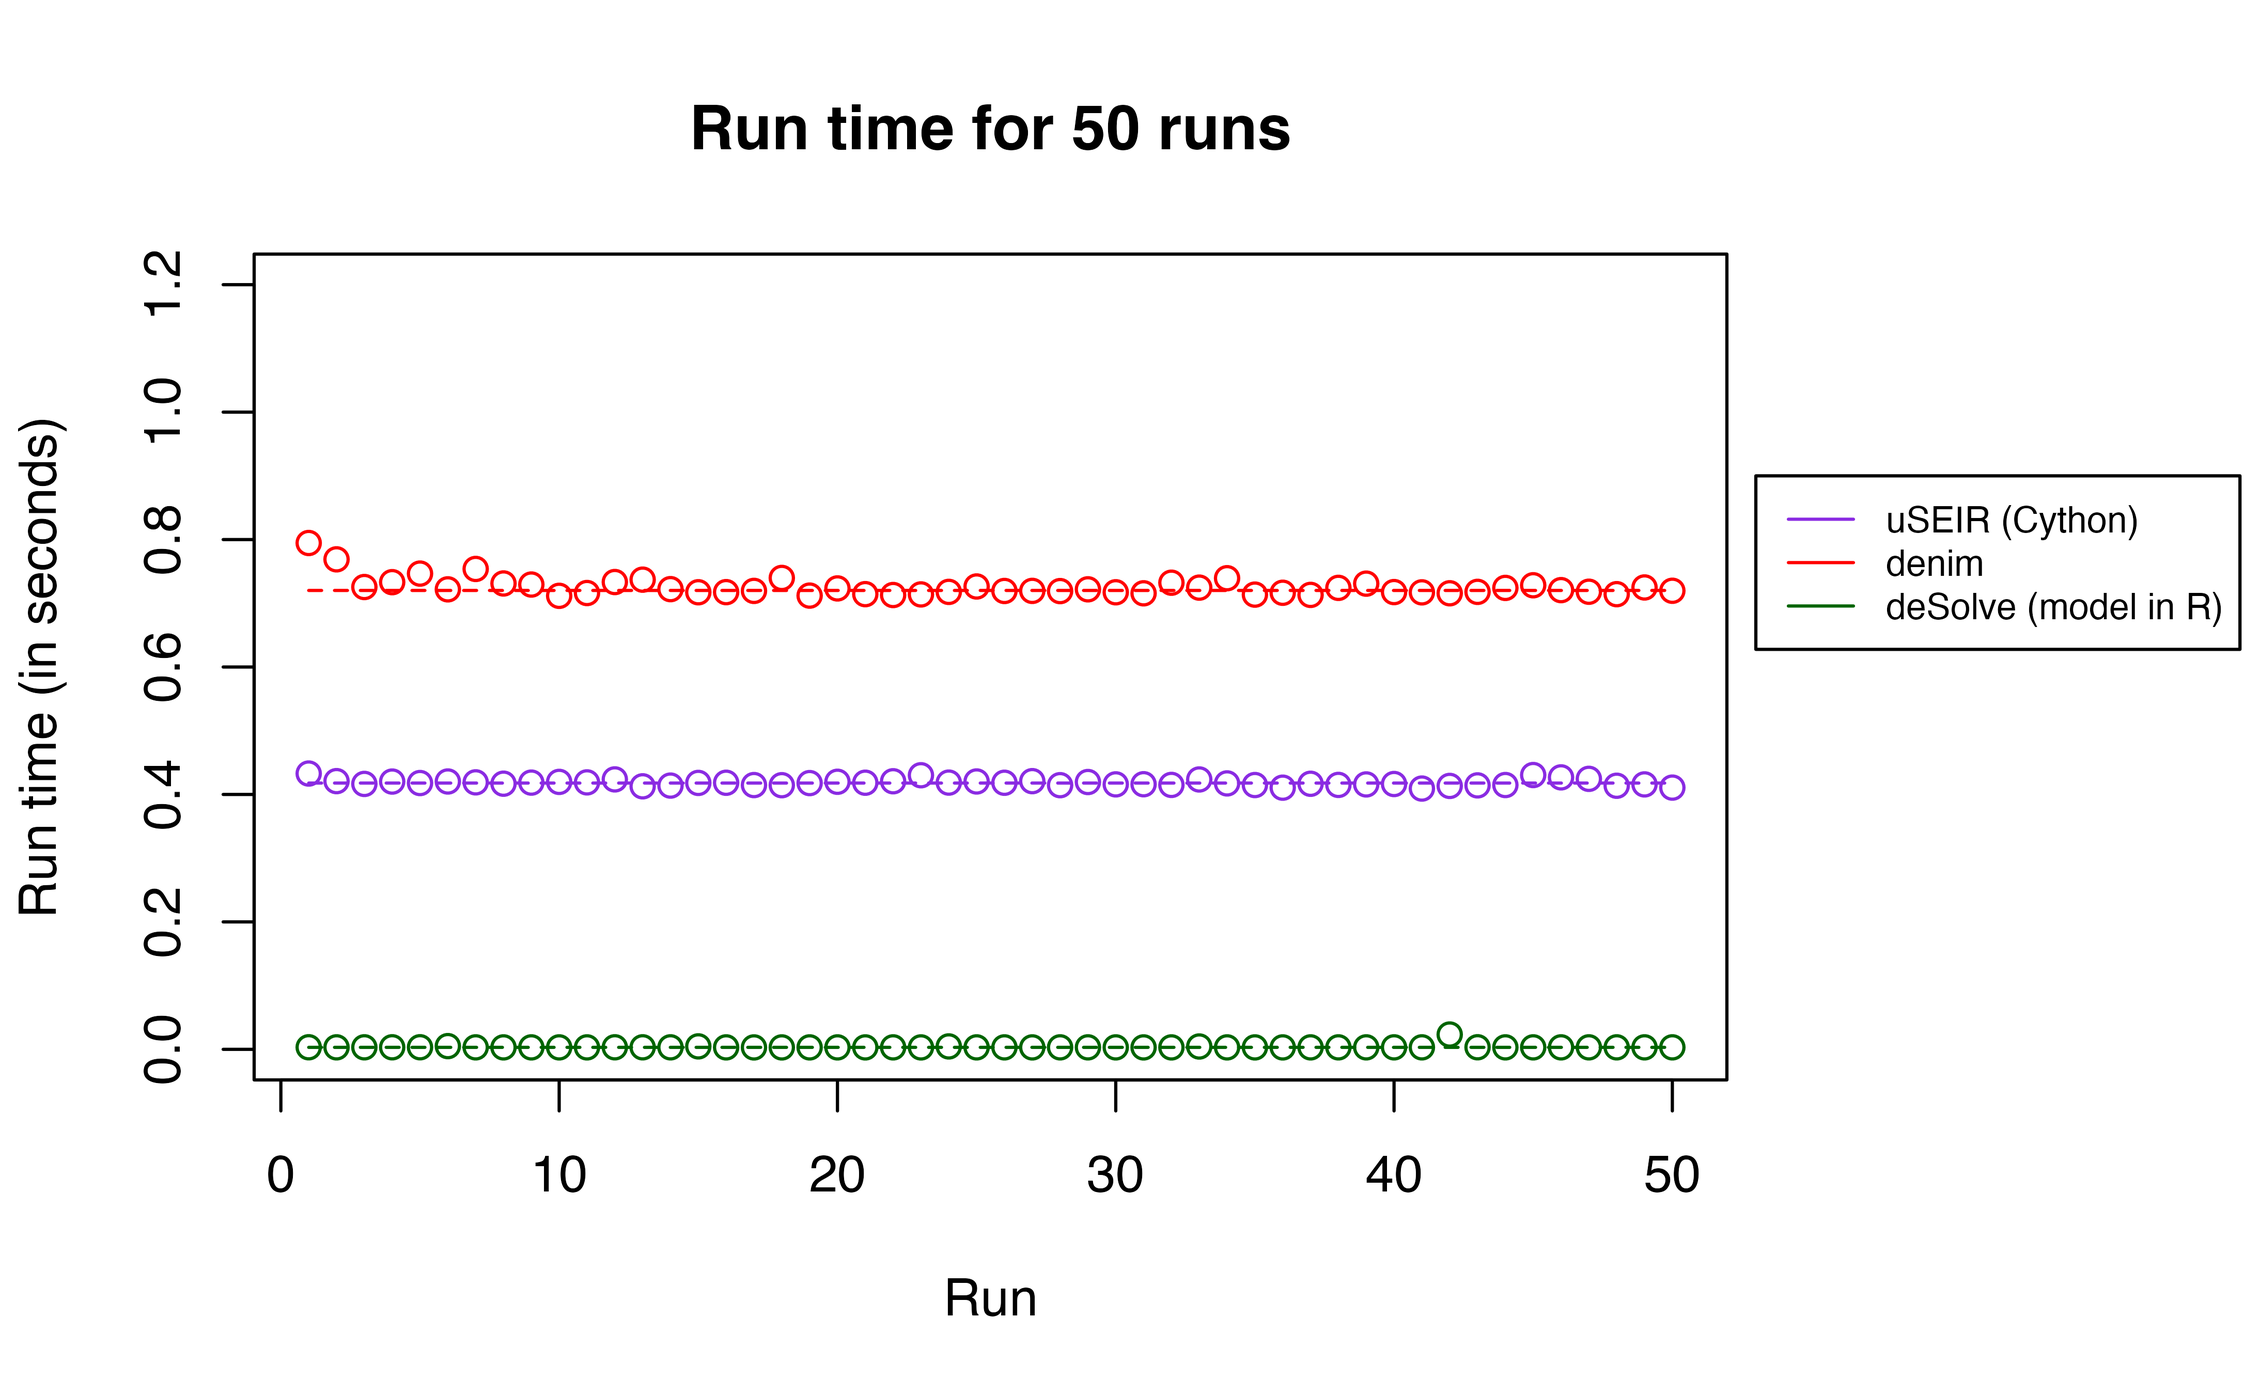
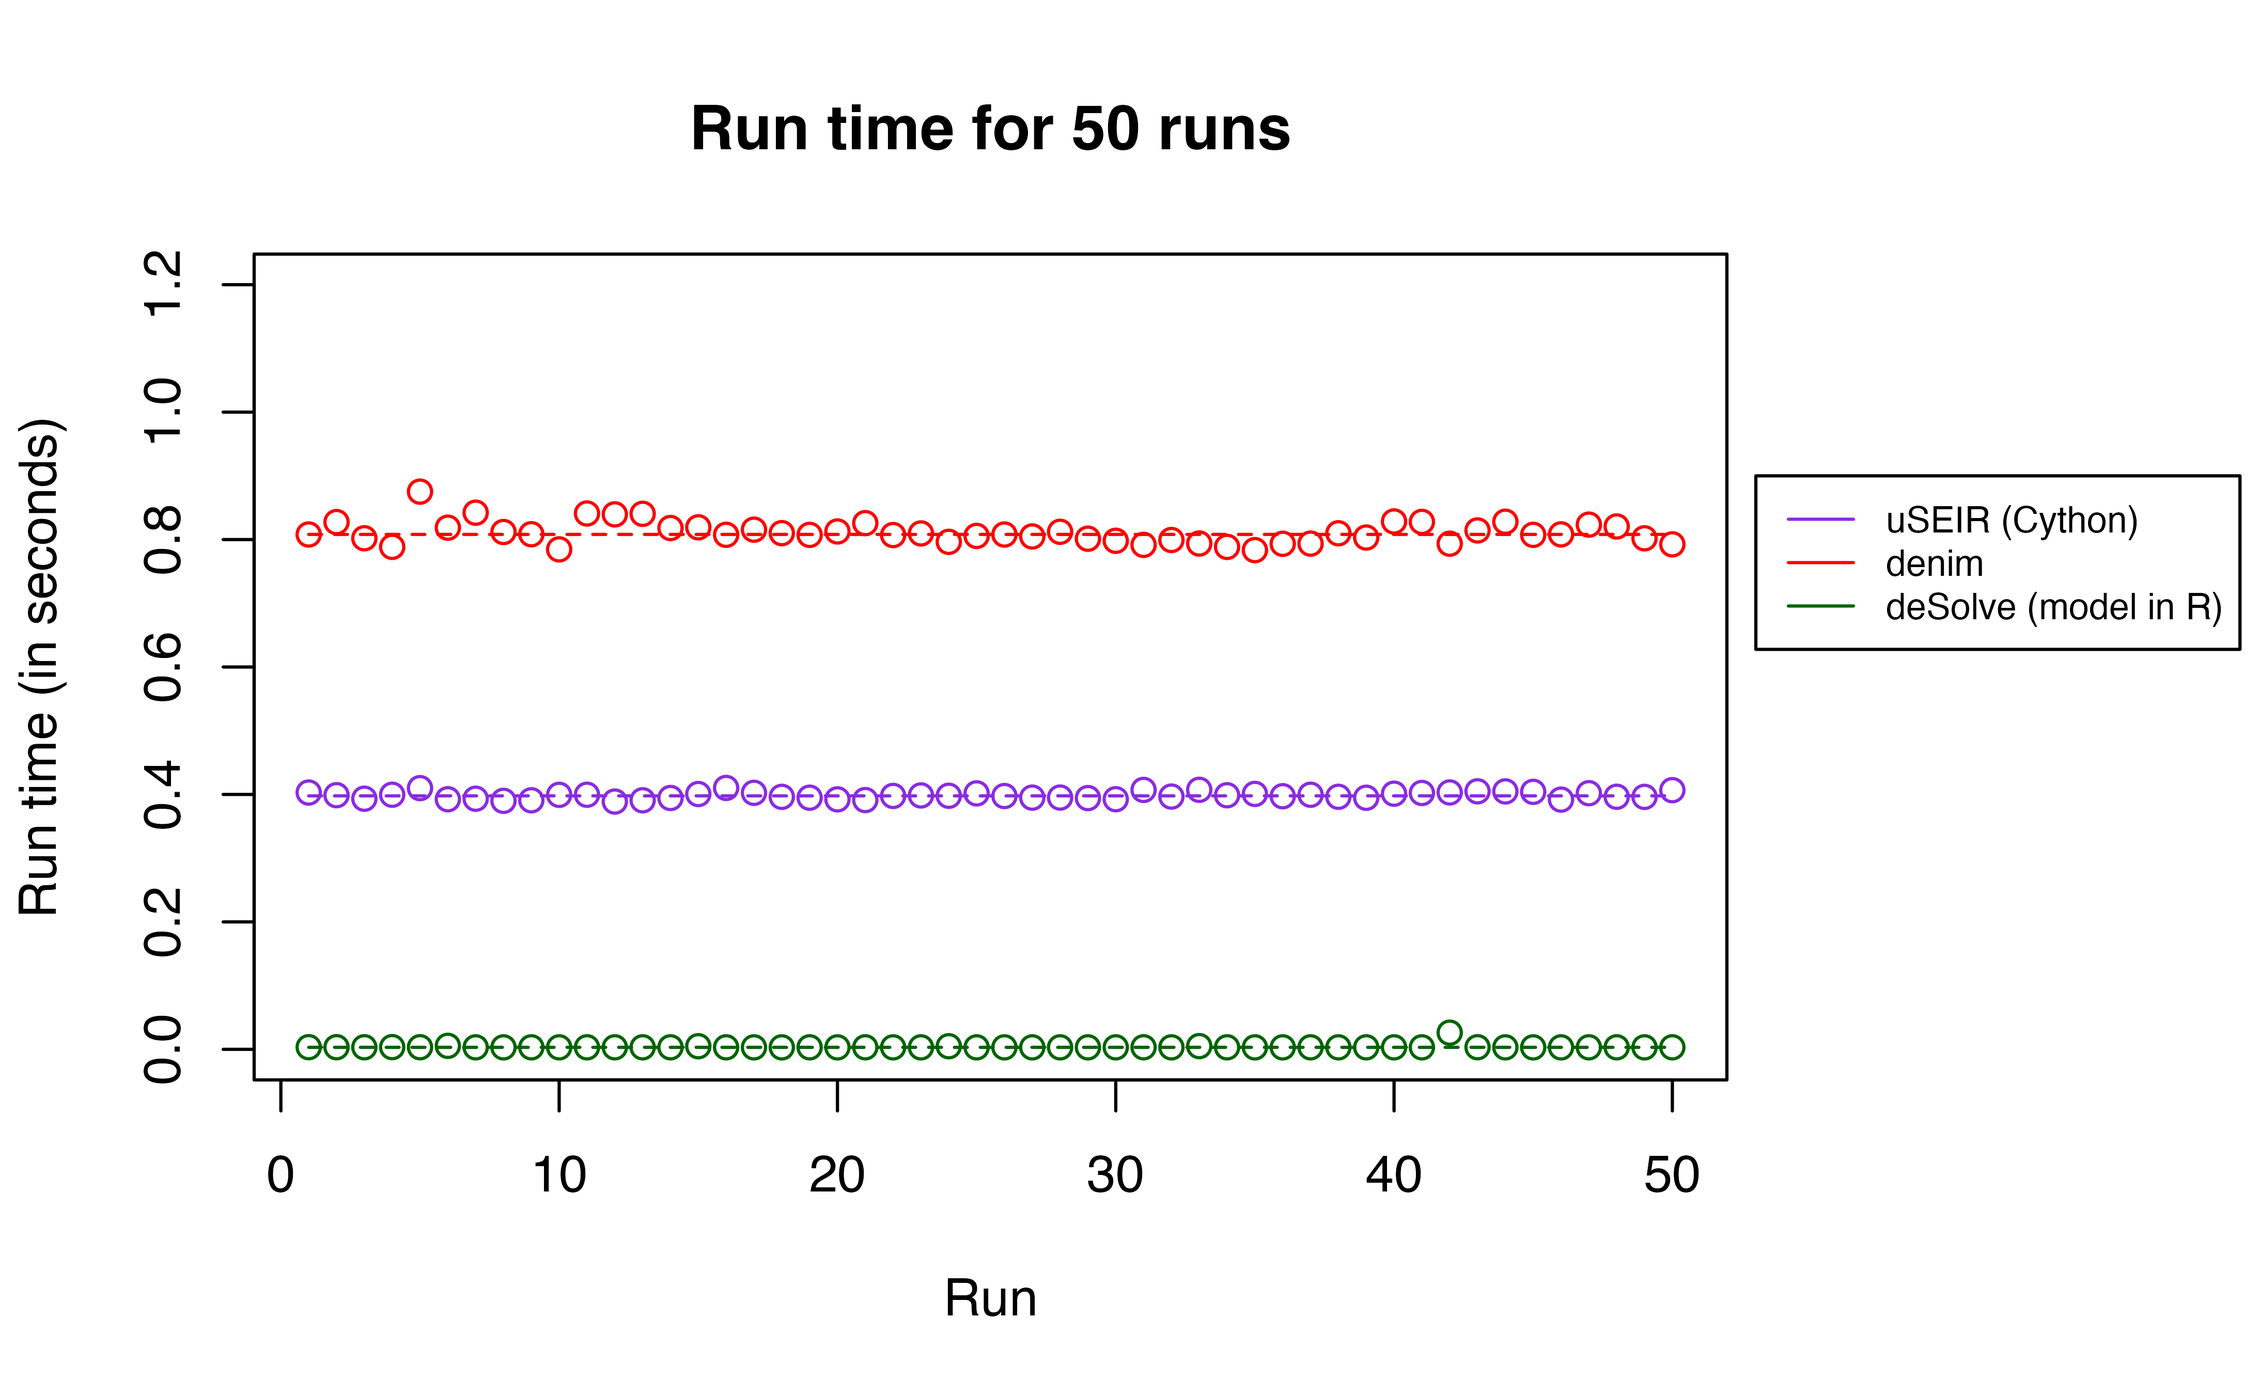
update rerendered benchmark

Changed region(s): [[0.1243, 0.3418, 0.7461, 0.4351], [0.1243, 0.5283, 0.7461, 0.5905]]

diff --git a/docs/articles/denim_benchmark.html b/docs/articles/denim_benchmark.html
@@ -33,7 +33,7 @@
     
     <a class="navbar-brand me-2" href="../index.html">denim</a>
 
-    <small class="nav-text text-muted me-auto" data-bs-toggle="tooltip" data-bs-placement="bottom" title="">1.0.1</small>
+    <small class="nav-text text-muted me-auto" data-bs-toggle="tooltip" data-bs-placement="bottom" title="">1.1.0</small>
 
     
     <button class="navbar-toggler" type="button" data-bs-toggle="collapse" data-bs-target="#navbar" aria-controls="navbar" aria-expanded="false" aria-label="Toggle navigation">
@@ -477,15 +477,15 @@ Code for running uSEIR in Cython (C backend)
 </details><p>Run time for uSEIR approach, Cython implementation (in seconds)</p>
 <div class="sourceCode" id="cb13"><pre class="downlit sourceCode r">
 <code class="sourceCode R"><span><span class="va">py</span><span class="op">$</span><span class="va">cython_runs</span></span></code></pre></div>
-<pre><code><span><span class="co">##  [1] 0.4328158 0.4209082 0.4165211 0.4202340 0.4179151 0.4203529 0.4190061</span></span>
-<span><span class="co">##  [8] 0.4168942 0.4185841 0.4197209 0.4189498 0.4236379 0.4127688 0.4139111</span></span>
-<span><span class="co">## [15] 0.4181099 0.4183521 0.4147227 0.4145312 0.4178381 0.4199111 0.4184237</span></span>
-<span><span class="co">## [22] 0.4207149 0.4301481 0.4186049 0.4203861 0.4183500 0.4208729 0.4145517</span></span>
-<span><span class="co">## [29] 0.4195142 0.4158289 0.4160469 0.4149702 0.4235260 0.4173398 0.4147599</span></span>
-<span><span class="co">## [36] 0.4106388 0.4167600 0.4149818 0.4157410 0.4163742 0.4092381 0.4133878</span></span>
-<span><span class="co">## [43] 0.4142311 0.4147809 0.4304650 0.4268229 0.4245021 0.4136519 0.4157870</span></span>
-<span><span class="co">## [50] 0.4107401</span></span></code></pre>
-<p>Median run time for uSEIR approach, Cython implementation: 0.4178766
+<pre><code><span><span class="co">##  [1] 0.4030068 0.3988447 0.3933129 0.3995359 0.4099331 0.3924820 0.3932900</span></span>
+<span><span class="co">##  [8] 0.3899877 0.3908563 0.3993828 0.3995361 0.3888798 0.3908482 0.3944440</span></span>
+<span><span class="co">## [15] 0.4006441 0.4102252 0.4025619 0.3962369 0.3949339 0.3923001 0.3912048</span></span>
+<span><span class="co">## [22] 0.3976700 0.3984449 0.3979242 0.4016840 0.3975101 0.3950331 0.3951261</span></span>
+<span><span class="co">## [29] 0.3943160 0.3925381 0.4071250 0.3966689 0.4072828 0.3987222 0.4008601</span></span>
+<span><span class="co">## [36] 0.3972352 0.3995247 0.3963258 0.3948133 0.4012113 0.4023120 0.4031579</span></span>
+<span><span class="co">## [43] 0.4049261 0.4047768 0.4040971 0.3919170 0.4019639 0.3963723 0.3962002</span></span>
+<span><span class="co">## [50] 0.4067359</span></span></code></pre>
+<p>Median run time for uSEIR approach, Cython implementation: 0.3977971
 seconds</p>
 </div>
 </div>
@@ -541,13 +541,13 @@ seconds</p>
 <div class="sourceCode" id="cb18"><pre class="downlit sourceCode r">
 <code class="sourceCode R"><span><span class="va">desolve_runs</span><span class="op">$</span><span class="va">time</span></span></code></pre></div>
 <pre><code><span><span class="co">## [[1]]</span></span>
-<span><span class="co">##  [1]  3.25ms  3.14ms  3.18ms  3.22ms  3.27ms  5.05ms  3.12ms  3.08ms  3.09ms</span></span>
-<span><span class="co">## [10]  3.08ms  3.08ms  3.21ms  3.18ms  3.16ms  4.66ms  3.09ms  3.02ms  3.03ms</span></span>
-<span><span class="co">## [19]  3.07ms  3.08ms  3.06ms  3.1ms   3.04ms  4.59ms  3.1ms   3.09ms  3.05ms</span></span>
-<span><span class="co">## [28]  3.12ms  3.12ms  3.07ms  3.04ms  3.05ms  4.46ms  3.08ms  3.05ms  3.04ms</span></span>
-<span><span class="co">## [37]  3.09ms  3.12ms  3.11ms  3.12ms  3.12ms 23.25ms  3.26ms  3.1ms   3.1ms </span></span>
-<span><span class="co">## [46]  3.11ms  3.13ms  3.14ms  3.13ms  3.13ms</span></span></code></pre>
-<p>Median run time for deSolve, with model defined in R: 0.0031037
+<span><span class="co">##  [1]  3.38ms  3.35ms  3.26ms  3.47ms  3.33ms  5.49ms  3.15ms  3.1ms   3.17ms</span></span>
+<span><span class="co">## [10]  3.15ms  3.17ms  3.19ms  3.19ms  3.2ms   4.9ms   3.15ms  3.1ms   3.11ms</span></span>
+<span><span class="co">## [19]  3.17ms  3.09ms  3.18ms  3.12ms  3.11ms  4.87ms  3.1ms   3.12ms  3.09ms</span></span>
+<span><span class="co">## [28]  3.15ms  3.14ms  3.13ms  3.22ms  3.12ms  5.07ms  3.15ms  3.11ms  3.11ms</span></span>
+<span><span class="co">## [37]  3.17ms  3.14ms  3.15ms  3.12ms  3.13ms 26.15ms  3.32ms  3.11ms  3.07ms</span></span>
+<span><span class="co">## [46]  3.09ms  3.19ms  3.17ms  3.12ms  3.18ms</span></span></code></pre>
+<p>Median run time for deSolve, with model defined in R: 0.0031472
 seconds</p>
 </div>
 <div class="section level3">
@@ -580,12 +580,12 @@ seconds</p>
 <div class="sourceCode" id="cb21"><pre class="downlit sourceCode r">
 <code class="sourceCode R"><span><span class="va">deSolve_c_runs</span><span class="op">$</span><span class="va">time</span></span></code></pre></div>
 <pre><code><span><span class="co">## [[1]]</span></span>
-<span><span class="co">##  [1] 166µs 200µs 138µs 168µs 133µs 138µs 151µs 126µs 148µs 128µs 124µs 146µs</span></span>
-<span><span class="co">## [13] 125µs 149µs 135µs 126µs 145µs 124µs 148µs 124µs 128µs 145µs 138µs 147µs</span></span>
-<span><span class="co">## [25] 135µs 125µs 146µs 128µs 144µs 118µs 118µs 140µs 121µs 141µs 119µs 119µs</span></span>
-<span><span class="co">## [37] 142µs 119µs 142µs 119µs 120µs 145µs 118µs 141µs 119µs 119µs 142µs 118µs</span></span>
-<span><span class="co">## [49] 145µs 118µs</span></span></code></pre>
-<p>Median run time for deSolve, with model defined in C: 1.351155^{-4}
+<span><span class="co">##  [1] 163µs 198µs 132µs 158µs 123µs 128µs 143µs 122µs 140µs 118µs 120µs 140µs</span></span>
+<span><span class="co">## [13] 124µs 144µs 118µs 117µs 135µs 116µs 143µs 118µs 115µs 141µs 120µs 137µs</span></span>
+<span><span class="co">## [25] 121µs 119µs 139µs 115µs 139µs 117µs 119µs 140µs 117µs 143µs 128µs 116µs</span></span>
+<span><span class="co">## [37] 143µs 117µs 135µs 118µs 124µs 144µs 119µs 138µs 114µs 118µs 142µs 117µs</span></span>
+<span><span class="co">## [49] 138µs 114µs</span></span></code></pre>
+<p>Median run time for deSolve, with model defined in C: 1.2375851^{-4}
 seconds</p>
 </div>
 <div class="section level3">
@@ -616,13 +616,13 @@ seconds</p>
 </details><div class="sourceCode" id="cb24"><pre class="downlit sourceCode r">
 <code class="sourceCode R"><span><span class="va">deSolve_fortran_runs</span><span class="op">$</span><span class="va">time</span></span></code></pre></div>
 <pre><code><span><span class="co">## [[1]]</span></span>
-<span><span class="co">##  [1] 419µs 204µs 236µs 193µs 180µs 202µs 192µs 199µs 179µs 184µs 199µs 179µs</span></span>
-<span><span class="co">## [13] 202µs 183µs 185µs 211µs 179µs 214µs 173µs 175µs 196µs 175µs 196µs 175µs</span></span>
-<span><span class="co">## [25] 174µs 205µs 177µs 194µs 182µs 176µs 191µs 166µs 192µs 162µs 172µs 190µs</span></span>
-<span><span class="co">## [37] 161µs 182µs 160µs 161µs 194µs 164µs 191µs 165µs 167µs 192µs 161µs 182µs</span></span>
-<span><span class="co">## [49] 161µs 165µs</span></span></code></pre>
+<span><span class="co">##  [1] 354µs 191µs 217µs 171µs 168µs 197µs 175µs 188µs 161µs 166µs 189µs 164µs</span></span>
+<span><span class="co">## [13] 190µs 170µs 165µs 190µs 164µs 184µs 170µs 163µs 186µs 165µs 185µs 162µs</span></span>
+<span><span class="co">## [25] 162µs 183µs 166µs 175µs 161µs 162µs 180µs 161µs 179µs 157µs 161µs 182µs</span></span>
+<span><span class="co">## [37] 157µs 178µs 156µs 158µs 177µs 155µs 181µs 171µs 156µs 176µs 160µs 177µs</span></span>
+<span><span class="co">## [49] 157µs 158µs</span></span></code></pre>
 <p>Median run time for deSolve, with model defined in Fortran:
-1.822245^{-4} seconds</p>
+1.7031402^{-4} seconds</p>
 </div>
 </div>
 <div class="section level2">
@@ -631,9 +631,12 @@ seconds</p>
 <details><summary>
 Code for running SEIR in <code>denim</code>
 </summary><div class="sourceCode" id="cb26"><pre class="downlit sourceCode r">
-<code class="sourceCode R"><span><span class="kw"><a href="https://rdrr.io/r/base/library.html" class="external-link">library</a></span><span class="op">(</span><span class="va"><a href="https://drthinhong.com/denim/" class="external-link">denim</a></span><span class="op">)</span></span>
+<code class="sourceCode R"><span><span class="va">timeStep</span> <span class="op">&lt;-</span> <span class="fl">0.01</span></span>
 <span></span>
-<span><span class="va">denim_model</span> <span class="op">&lt;-</span> <span class="fu"><a href="https://rdrr.io/r/base/list.html" class="external-link">list</a></span><span class="op">(</span></span>
+<span><span class="kw"><a href="https://rdrr.io/r/base/library.html" class="external-link">library</a></span><span class="op">(</span><span class="va"><a href="https://drthinhong.com/denim/" class="external-link">denim</a></span><span class="op">)</span></span></code></pre></div>
+<pre><code><span><span class="co">## Warning: package 'denim' was built under R version 4.3.3</span></span></code></pre>
+<div class="sourceCode" id="cb28"><pre class="downlit sourceCode r">
+<code class="sourceCode R"><span><span class="va">denim_model</span> <span class="op">&lt;-</span> <span class="fu"><a href="https://rdrr.io/r/base/list.html" class="external-link">list</a></span><span class="op">(</span></span>
 <span>  <span class="st">"S -&gt; E"</span> <span class="op">=</span> <span class="st">"(R0/tr) * timeStep * S * (I/N)"</span>, <span class="co"># formulate according that of uSEIR method</span></span>
 <span>  <span class="st">"E -&gt; I"</span> <span class="op">=</span> <span class="fu"><a href="../reference/d_gamma.html">d_gamma</a></span><span class="op">(</span>rate <span class="op">=</span> <span class="fl">1</span><span class="op">/</span><span class="fl">4</span>, shape <span class="op">=</span> <span class="fl">2</span><span class="op">)</span>,</span>
 <span>  <span class="st">"I -&gt; R"</span> <span class="op">=</span> <span class="fu"><a href="../reference/d_gamma.html">d_gamma</a></span><span class="op">(</span>rate <span class="op">=</span> <span class="fl">1</span><span class="op">/</span><span class="fl">3</span>, shape <span class="op">=</span> <span class="fl">2</span><span class="op">)</span></span>
@@ -649,7 +652,7 @@ Code for running SEIR in <code>denim</code>
 <span>  <span class="fu"><a href="../reference/sim.html">sim</a></span><span class="op">(</span>transitions <span class="op">=</span> <span class="va">denim_model</span>,</span>
 <span>                     initialValues <span class="op">=</span> <span class="va">initialValues</span>,</span>
 <span>                     parameters <span class="op">=</span> <span class="va">parameters</span>,</span>
-<span>                     simulationDuration <span class="op">=</span> <span class="va">sim_duration</span>, timeStep <span class="op">=</span> <span class="fl">0.05</span><span class="op">)</span>,</span>
+<span>                     simulationDuration <span class="op">=</span> <span class="va">sim_duration</span>, timeStep <span class="op">=</span> <span class="va">timeStep</span><span class="op">)</span>,</span>
 <span>  iterations <span class="op">=</span> <span class="va">total_runs</span></span>
 <span><span class="op">)</span></span>
 <span></span>
@@ -658,17 +661,17 @@ Code for running SEIR in <code>denim</code>
 <span><span class="va">denim_out</span> <span class="op">&lt;-</span> <span class="fu"><a href="../reference/sim.html">sim</a></span><span class="op">(</span>transitions <span class="op">=</span> <span class="va">denim_model</span>, </span>
 <span>                     initialValues <span class="op">=</span> <span class="va">initialValues</span>,</span>
 <span>                     parameters <span class="op">=</span> <span class="va">parameters</span>,</span>
-<span>                     simulationDuration <span class="op">=</span> <span class="va">sim_duration</span>, timeStep <span class="op">=</span> <span class="fl">0.05</span><span class="op">)</span></span></code></pre></div>
+<span>                     simulationDuration <span class="op">=</span> <span class="va">sim_duration</span>, timeStep <span class="op">=</span> <span class="va">timeStep</span><span class="op">)</span></span></code></pre></div>
 </details><p>Run time for <code>denim</code> implementation</p>
-<div class="sourceCode" id="cb27"><pre class="downlit sourceCode r">
+<div class="sourceCode" id="cb29"><pre class="downlit sourceCode r">
 <code class="sourceCode R"><span><span class="va">denim_runs</span><span class="op">$</span><span class="va">time</span></span></code></pre></div>
 <pre><code><span><span class="co">## [[1]]</span></span>
-<span><span class="co">##  [1] 795ms 769ms 726ms 733ms 747ms 722ms 754ms 731ms 729ms 712ms 716ms 733ms</span></span>
-<span><span class="co">## [13] 737ms 722ms 717ms 717ms 719ms 740ms 712ms 723ms 714ms 713ms 714ms 718ms</span></span>
-<span><span class="co">## [25] 726ms 719ms 719ms 719ms 722ms 717ms 716ms 732ms 725ms 739ms 714ms 717ms</span></span>
-<span><span class="co">## [37] 713ms 724ms 731ms 718ms 717ms 716ms 718ms 724ms 728ms 721ms 718ms 714ms</span></span>
-<span><span class="co">## [49] 725ms 720ms</span></span></code></pre>
-<p>Median run time for denim: 0.7201528 seconds</p>
+<span><span class="co">##  [1] 808ms 827ms 802ms 789ms 875ms 819ms 842ms 812ms 808ms 785ms 841ms 840ms</span></span>
+<span><span class="co">## [13] 840ms 818ms 819ms 807ms 816ms 810ms 807ms 813ms 826ms 807ms 810ms 796ms</span></span>
+<span><span class="co">## [25] 806ms 808ms 805ms 812ms 801ms 798ms 792ms 799ms 794ms 788ms 783ms 793ms</span></span>
+<span><span class="co">## [37] 794ms 810ms 803ms 828ms 828ms 794ms 814ms 828ms 807ms 808ms 823ms 821ms</span></span>
+<span><span class="co">## [49] 802ms 793ms</span></span></code></pre>
+<p>Median run time for denim: 0.8079945 seconds</p>
 </div>
 <div class="section level2">
 <h2 id="visualize-output">Visualize output<a class="anchor" aria-label="anchor" href="#visualize-output"></a>
@@ -692,6 +695,8 @@ duration of time step (<code>timeStep</code> parameter for
 timeStep changes, using the same model for benchmarking. The values for
 timeStep being evaluated are
 <code>[0.01, 0.02, 0.05, 0.1, 0.25, 0.5, 1]</code>.</p>
+<pre><code><span><span class="co">## Warning: Some expressions had a GC in every iteration; so filtering is</span></span>
+<span><span class="co">## disabled.</span></span></code></pre>
 <p><img src="denim_benchmark_files/figure-html/unnamed-chunk-18-1.png" width="2187.5"></p>
 <div id="refs" class="references csl-bib-body hanging-indent" entry-spacing="0">
 <div id="ref-Hernndez2021" class="csl-entry">
